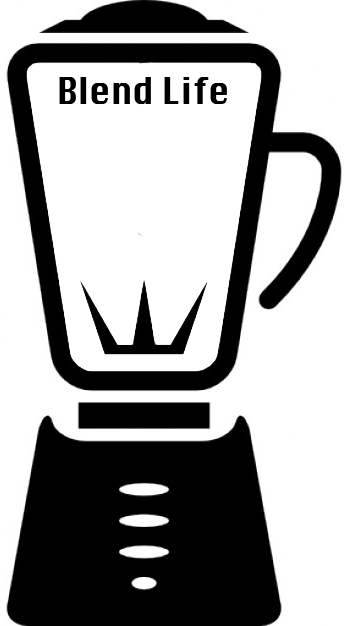
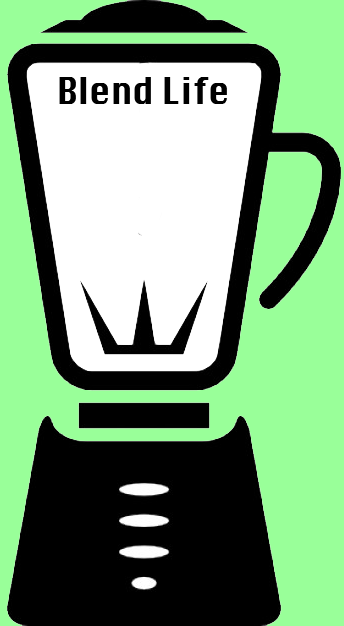
background colours

diff --git a/src/scss/style.scss b/src/scss/style.scss
@@ -1,7 +1,20 @@
 // Import all of your scss files here
+@import 'helpers/variables';
 
 .selected {
   background: yellow;
+}
+
+body {
+background: $primary-background-color;
+}
+
+main {
+  background: white; /* For browsers that do not support gradients */
+  background: -webkit-linear-gradient(left top, white, pink); /* For Safari 5.1 to 6.0 */
+  background: -o-linear-gradient(bottom right, white, pink); /* For Opera 11.1 to 12.0 */
+  background: -moz-linear-gradient(bottom right, white, pink); /* For Firefox 3.6 to 15 */
+  background: linear-gradient(to bottom right, white, pink); /* Standard syntax */
 }
 
 ul {
@@ -29,11 +42,15 @@ ul {
 
 .homeLogoContainer {
   // position: relative;
-  width: 400px;
-  height: 400px;
+  width: 300px;
+  height: 620px;
+  background: $primary-background-color;
+  // border-radius: 600px;
   .homeLogo {
     height: 550px;
     width: 300px;
+    left: 10;
+    top: 5%;
     // position: absolute;
   }
   .homeLogoBackground {
@@ -42,6 +59,12 @@ ul {
     width: 230px;
     left: 0;
     top: 10%;
+  }
+  .homeCircle {
+    height: 620px;
+    width: 620px;
+    border-radius: 620px;
+    background: $primary-background-color;
   }
 }
 
@@ -85,6 +108,5 @@ ul {
     width: 200px;
     left: 0;
     top: 0;
-    // background-color: red;
   }
 }

diff --git a/src/js/views/home.html b/src/js/views/home.html
@@ -1,7 +1,6 @@
 <h1>Blend Life</h1>
-
-
-<div class="homeLogoContainer relative">
-  <img class="homeLogoBackground absolute" src="images/ColourWave.gif">
-  <img class="homeLogo absolute" src="/images/BlenderIcon4.png">
-</div>
+  <div class="homeLogoContainer relative">
+    <img class="homeLogoBackground absolute" src="images/ColourWave.gif">
+    <img class="homeLogo absolute" src="/images/BlenderIcon4.png">
+    <div class="homeCircle"></div>
+  </div>

diff --git a/src/scss/helpers/_variables.scss b/src/scss/helpers/_variables.scss
@@ -1,0 +1,1 @@
+$primary-background-color: rgb(153, 255, 153);
